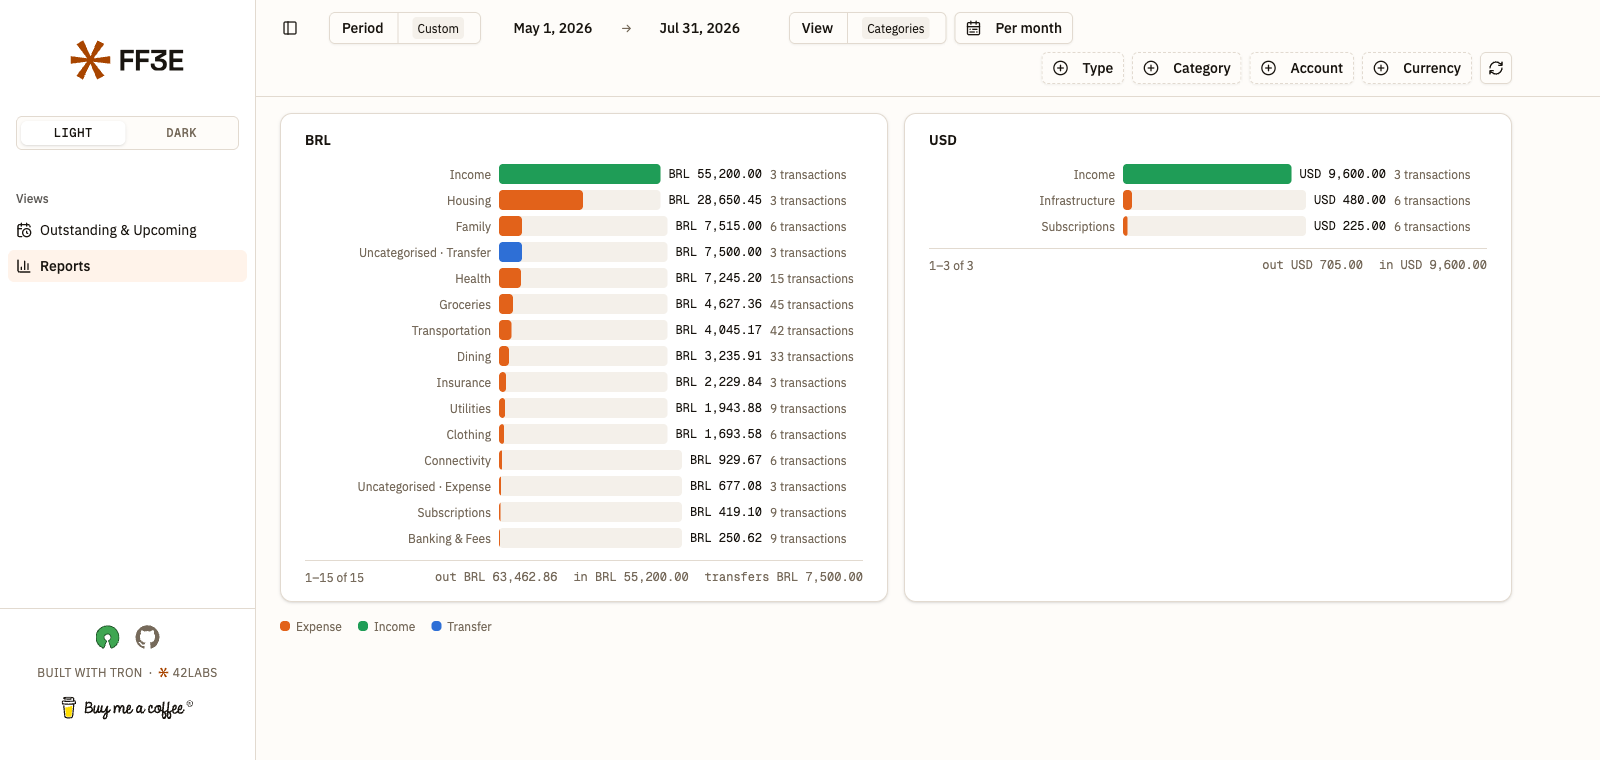
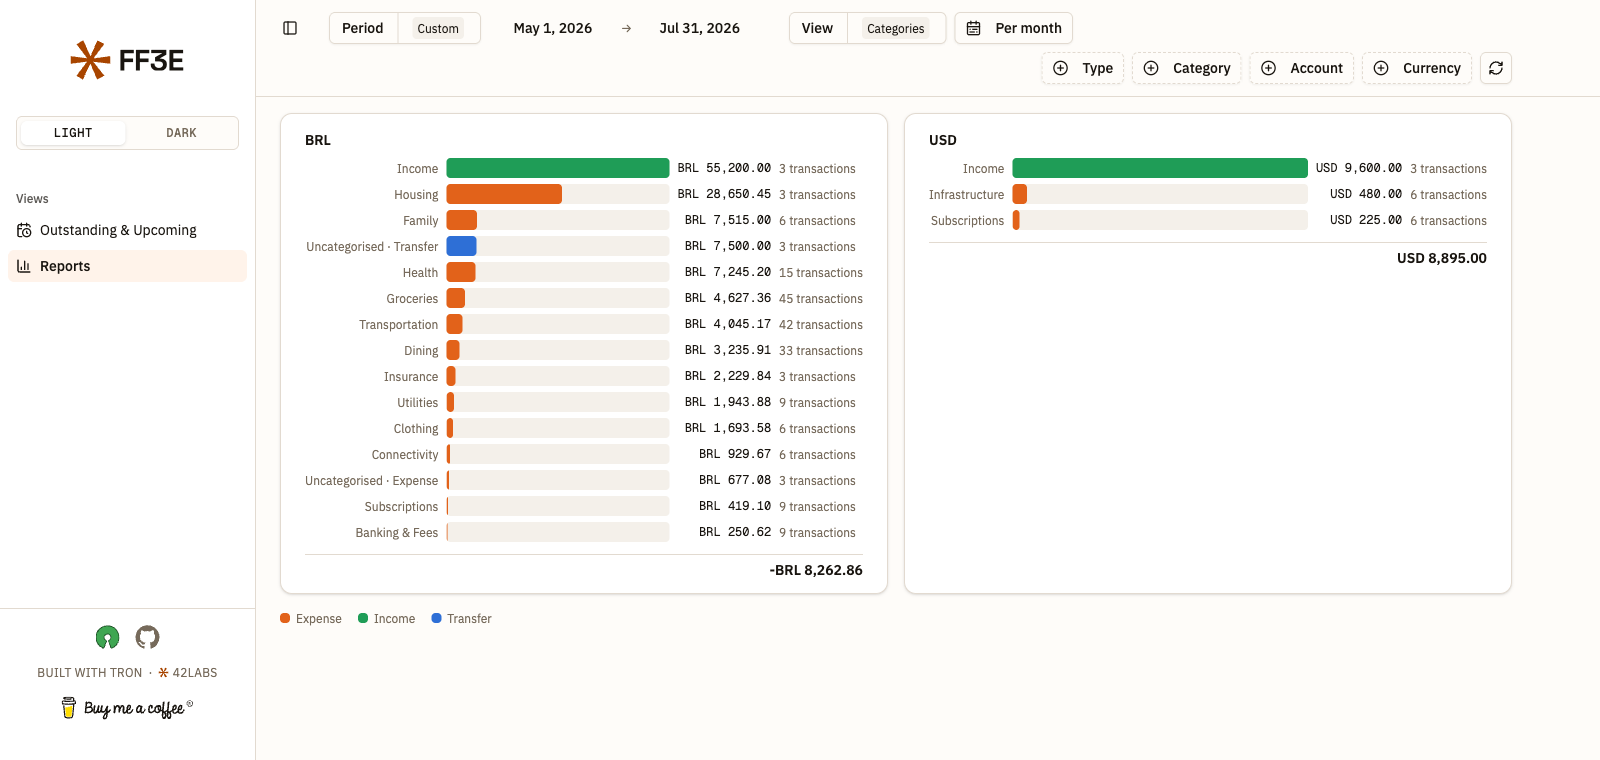
Reports: fix the card total, move paging to the header, unsqueeze the rows
The card total was summing every row regardless of direction, so a card holding
9,600 of income and 705 of spend reported "10,305" — a number that means nothing,
in a finance tool. It is now the NET of what the card is showing: income minus
expenses, with transfers excluded outright, since money moved between the user's
own accounts is neither earned nor spent. The same card reads 8,895; a
spend-heavy card reads negative, as it should.

That footer is now one figure and nothing else, in the card-title style. The
entry count and the out/in/transfer breakdown are gone, and with them the
ReportCard.totals field that only fed them.

Paging moves to the card header's right corner. The design system publishes no
pagination primitive, so it stays composed from the adopted `button` — a bespoke
one would fail DS gate 3, and adding it to the registry is a design-system
change, not this app's to make.

Rows become one grid for the whole list instead of per-row flex, with the label
column sized to `max-content` rather than a fixed third. That third was the left
padding in the Categories view: short category names sat right-aligned against an
empty column while every bar started a third of the way in. Capped so a long
transaction description cannot starve the bar.

README and the Reports screenshot updated — the old text claimed card totals
always cover the whole window, which the single net figure no longer does.

Changed region(s): [[0.1875, 0.1816, 0.5625, 0.8474], [0.5938, 0.1816, 0.9375, 0.3632]]

diff --git a/web/src/components/ReportChart.tsx b/web/src/components/ReportChart.tsx
@@ -1,17 +1,10 @@
-import { useEffect, useState } from 'react'
+import { Fragment, useEffect, useState } from 'react'
 import { ChevronLeft, ChevronRight } from 'lucide-react'
 
 import { Button } from '@/components/ui/button'
 import { Card, CardContent, CardHeader, CardTitle } from '@/components/ui/card'
 import { formatMoney } from '@/lib/format'
-import {
-  FLOW_LABEL,
-  PAGE_SIZE,
-  pageCount,
-  pageOf,
-  type Flow,
-  type ReportCard,
-} from '@/lib/reports'
+import { FLOW_LABEL, pageCount, pageOf, type Flow, type ReportCard } from '@/lib/reports'
 
 /** Bar colour by direction. Expense is the report's main subject and takes the
  * accent; income and transfers are distinguished so a mixed list stays readable
@@ -36,7 +29,7 @@ export interface ReportChartProps {
  * colour and dimension comes off the token layer, so it themes with the app.
  */
 export function ReportChart({ data }: ReportChartProps) {
-  const { title, currency, rows, totals, max } = data
+  const { title, currency, rows, max } = data
   const pages = pageCount(rows.length)
   const [page, setPage] = useState(0)
 
@@ -47,32 +40,78 @@ export function ReportChart({ data }: ReportChartProps) {
   }, [pages])
 
   const visible = pageOf(rows, page)
-  const first = rows.length === 0 ? 0 : page * PAGE_SIZE + 1
-  const last = Math.min(rows.length, (page + 1) * PAGE_SIZE)
+
+  // Net of what this card is showing: income MINUS expenses. Adding the two
+  // together produces a number that means nothing — the first cut of this footer
+  // did exactly that and reported 9,600 of income plus 705 of spend as "10,305".
+  // Transfers are excluded outright: money moved between the user's own accounts
+  // is neither earned nor spent.
+  const shown = visible.reduce(
+    (sum, row) => (row.flow === 'in' ? sum + row.total : row.flow === 'out' ? sum - row.total : sum),
+    0,
+  )
 
   return (
     <Card className="gap-2 py-4">
-      <CardHeader>
+      <CardHeader className="flex flex-row flex-wrap items-center justify-between gap-x-4 gap-y-2 space-y-0">
         <CardTitle className="text-sm">{title}</CardTitle>
+
+        {/* Pagination rides in the header's right corner. The design system
+            publishes no pagination primitive (see REGISTRY.md), so this is
+            composed from the adopted `button` rather than hand-rolled — a
+            bespoke primitive would fail DS gate 3, and adding one to the
+            registry is a design-system change, not this app's to make. */}
+        {pages > 1 && (
+          <nav className="flex items-center gap-1" aria-label={`${title} pages`}>
+            <Button
+              variant="outline"
+              size="icon"
+              className="h-7 w-7"
+              onClick={() => setPage((p) => Math.max(0, p - 1))}
+              disabled={page === 0}
+              aria-label="Previous page"
+            >
+              <ChevronLeft className="h-3.5 w-3.5" />
+            </Button>
+            <span className="w-16 text-center text-xs tabular-nums text-muted-foreground">
+              {page + 1} / {pages}
+            </span>
+            <Button
+              variant="outline"
+              size="icon"
+              className="h-7 w-7"
+              onClick={() => setPage((p) => Math.min(pages - 1, p + 1))}
+              disabled={page >= pages - 1}
+              aria-label="Next page"
+            >
+              <ChevronRight className="h-3.5 w-3.5" />
+            </Button>
+          </nav>
+        )}
       </CardHeader>
 
       <CardContent className="flex flex-col gap-3">
-        {/* Proportional widths, not fixed ones: cards divide a row, so the same
-            row markup has to hold at full width and at a sixth of it. */}
-        <div className="flex flex-col gap-1.5">
+        {/* One grid for the whole list, so the four columns align across rows.
+            The label column is `max-content` — sized to the longest label rather
+            than a fixed fraction, which is what kept short category names pinned
+            to the right of an empty third. It is capped so a long transaction
+            description cannot starve the bar. */}
+        <div
+          className="grid items-center gap-x-2 gap-y-1.5"
+          style={{
+            gridTemplateColumns: 'minmax(0, max-content) 1fr max-content max-content',
+          }}
+        >
           {visible.map((row) => (
-            <div key={row.key} className="flex items-center gap-2">
-              <div
-                className="min-w-0 basis-1/3 truncate text-right text-xs text-muted-foreground"
-                title={row.label}
-              >
+            <Fragment key={row.key}>
+              <div className="max-w-56 truncate text-right text-xs text-muted-foreground" title={row.label}>
                 {row.label}
               </div>
 
-              {/* The track is the remaining width; the bar is this row's share of
-                  the largest row in the whole list — not of the visible page — so
-                  bar lengths stay comparable as you page through. */}
-              <div className="h-5 min-w-0 flex-1 overflow-hidden rounded-sm bg-muted">
+              {/* The bar is this row's share of the largest row in the whole
+                  list — not of the visible page — so lengths stay comparable as
+                  you page through. */}
+              <div className="h-5 min-w-0 overflow-hidden rounded-sm bg-muted">
                 <div
                   className="h-full rounded-sm"
                   title={FLOW_LABEL[row.flow]}
@@ -83,62 +122,24 @@ export function ReportChart({ data }: ReportChartProps) {
                 />
               </div>
 
-              <div className="shrink-0 whitespace-nowrap text-right font-mono text-xs tabular-nums">
+              <div className="whitespace-nowrap text-right font-mono text-xs tabular-nums">
                 {formatMoney(row.total, currency)}
               </div>
-              <div
-                className="min-w-0 basis-1/6 truncate text-xs tabular-nums text-muted-foreground"
-                title={row.detail}
-              >
+              <div className="whitespace-nowrap text-xs tabular-nums text-muted-foreground">
                 {row.detail}
               </div>
-            </div>
+            </Fragment>
           ))}
         </div>
 
-        <div className="flex flex-wrap items-center justify-between gap-2 border-t border-border pt-2 text-xs text-muted-foreground">
-          <span className="tabular-nums">
-            {rows.length === 0
-              ? 'No transactions'
-              : `${first}–${last} of ${rows.length}`}
+        {/* The total of what this card is showing. Card-title styling, so it
+            reads as the figure the card resolves to rather than a footnote. */}
+        <div className="flex justify-end border-t border-border pt-2">
+          <span className="text-sm leading-none font-semibold tabular-nums">
+            {formatMoney(shown, currency)}
           </span>
-
-          {/* Totals for the WHOLE window, never the visible page — a page total
-              would read as a period total and quietly mislead. */}
-          <span className="flex flex-wrap items-center gap-x-4 gap-y-1 font-mono tabular-nums">
-            {totals.out > 0 && <span>out {formatMoney(totals.out, currency)}</span>}
-            {totals.in > 0 && <span>in {formatMoney(totals.in, currency)}</span>}
-            {totals.xfer > 0 && <span>transfers {formatMoney(totals.xfer, currency)}</span>}
-          </span>
-
-          {pages > 1 && (
-            <span className="flex items-center gap-1">
-              <Button
-                variant="outline"
-                size="icon"
-                className="h-7 w-7"
-                onClick={() => setPage((p) => Math.max(0, p - 1))}
-                disabled={page === 0}
-                aria-label={`Previous page of ${currency} rows`}
-              >
-                <ChevronLeft className="h-3.5 w-3.5" />
-              </Button>
-              <span className="w-16 text-center tabular-nums">
-                {page + 1} / {pages}
-              </span>
-              <Button
-                variant="outline"
-                size="icon"
-                className="h-7 w-7"
-                onClick={() => setPage((p) => Math.min(pages - 1, p + 1))}
-                disabled={page >= pages - 1}
-                aria-label={`Next page of ${currency} rows`}
-              >
-                <ChevronRight className="h-3.5 w-3.5" />
-              </Button>
-            </span>
-          )}
         </div>
+
       </CardContent>
     </Card>
   )

diff --git a/web/src/lib/reports.ts b/web/src/lib/reports.ts
@@ -52,8 +52,6 @@ export interface ReportCard {
   monthKey: string | null
   /** Ranked, largest first. Every row, unpaged — the card pages it for display. */
   rows: ReportRow[]
-  /** Totals across the whole list, not just the visible page. */
-  totals: { out: number; in: number; xfer: number }
   /** The largest row total, i.e. what a full-width bar represents. */
   max: number
 }
@@ -107,12 +105,10 @@ export function buildReport(
         currency,
         monthKey,
         rows: [],
-        totals: { out: 0, in: 0, xfer: 0 },
         max: 0,
       }
       byCard.set(cardKey, bucket)
     }
-    bucket.totals[flow] += tx.amount
 
     if (view === 'categories') {
       // One bar per category. An uncategorised transaction is bucketed, never

diff --git a/README.md b/README.md
@@ -140,11 +140,15 @@ settlement, no projection. Just the ledger, ranked.
 - One card **per currency** (× per month, with that toggle on). Totals never
   cross-sum currencies. A lone card takes the full row; more than one splits it
   two-up and wraps.
-- Ranked largest first, **25 rows a page**. Bar length is a row's share of the
-  largest row in the *whole* list, not the visible page, so lengths stay
-  comparable as you page. Colour is the direction — expense, income, transfer.
+- Ranked largest first, **25 rows a page** (paging sits in the card header). Bar
+  length is a row's share of the largest row in the *whole* list, not the visible
+  page, so lengths stay comparable as you page. Colour is the direction —
+  expense, income, transfer.
 - The same Type / Category / Account / Currency facets as the forecast view.
-  **Card totals always cover the whole window, never the visible page.**
+- Each card closes with **one figure: the net of what that card is showing** —
+  income minus expenses, transfers excluded, since money moved between your own
+  accounts is neither earned nor spent. Never income *added to* expenses, which
+  would be a number that means nothing.
 
 A category that both spends and receives stays two bars — netting them would
 hide both halves — and the direction joins its label so the pair never reads as
